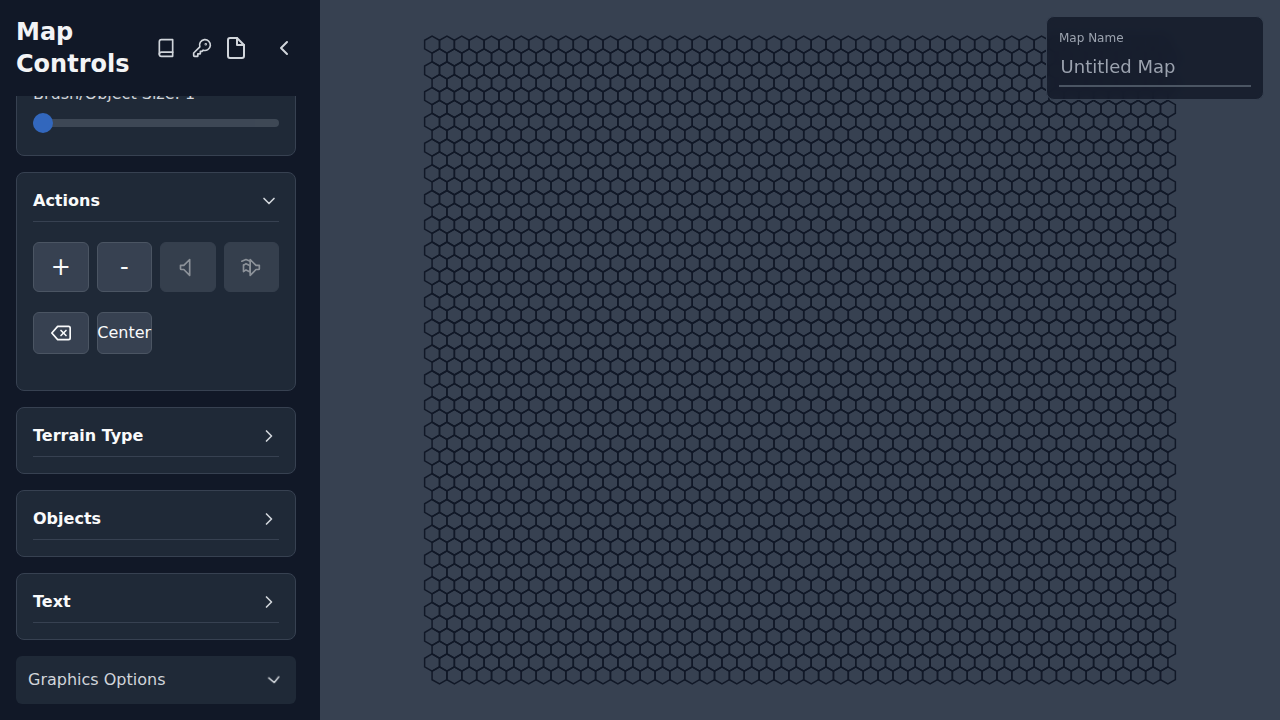
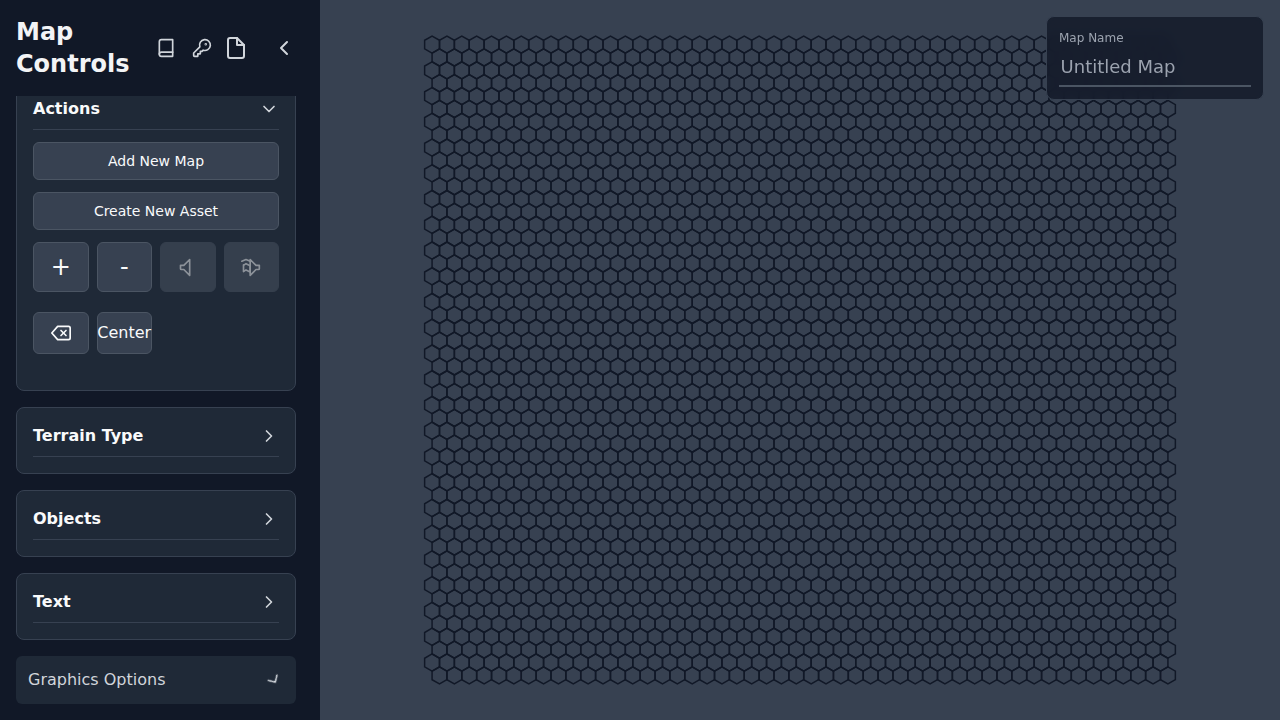
Fix graphics options and add UI improvements
- Fixed the "Graphics Options" button by serving the application over HTTP.
- Added "Add New Map" and "Create New Asset" buttons to the UI.
- Implemented shift-key constraint for drawing perfect squares and circles.
- Added and configured Playwright for automated testing.

Changed region(s): [[0.0, 0.1222, 0.2188, 0.3361]]

diff --git a/index.html b/index.html
@@ -424,6 +424,8 @@
                             <svg xmlns="http://www.w3.org/2000/svg" width="20" height="20" viewBox="0 0 24 24" fill="none" stroke="currentColor" stroke-width="2" stroke-linecap="round" stroke-linejoin="round"><polyline points="6 9 12 15 18 9"></polyline></svg>
                         </div>
                         <div id="actionsContent" class="collapsible-content">
+                            <button id="addNewMapBtn" class="w-full mb-2 text-sm py-2">Add New Map</button>
+                            <button id="createNewAssetBtn" class="w-full mb-2 text-sm py-2">Create New Asset</button>
                             <div class="grid grid-cols-4 gap-2 my-2">
                                 <button id="zoomInBtn" title="Zoom In" class="text-2xl">+</button>
                                 <button id="zoomOutBtn" title="Zoom Out" class="text-2xl">-</button>
@@ -635,6 +637,8 @@
             const mapKeyHeader = document.getElementById('mapKeyHeader');
             const mapKeyContent = document.getElementById('mapKeyContent');
             const mapKeyCloseBtn = document.getElementById('mapKeyCloseBtn');
+            const addNewMapBtn = document.getElementById('addNewMapBtn');
+            const createNewAssetBtn = document.getElementById('createNewAssetBtn');
 
             // --- Configuration ---
             const baseHexSize = 30;
@@ -1987,6 +1991,10 @@
                 drawSection(objectItems, 'Objects');
             }
 
+            function showCreateAssetModal() {
+                showModal("Asset creation functionality is coming soon!");
+            }
+
             function addEventListeners() {
                 window.addEventListener('resize', resizeCanvas);
                 canvas.addEventListener('contextmenu', e => e.preventDefault());
@@ -2071,8 +2079,18 @@
 
                     if (isDrawingShape) {
                         previewCtx.clearRect(0, 0, previewCanvas.width, previewCanvas.height);
-                        const endPoint = pixelToHex(mouseX, mouseY, currentTool === 'pencil');
+                        let endPoint = pixelToHex(mouseX, mouseY, currentTool === 'pencil');
                         const startPoint = shapeStartPoint;
+
+                        if (e.shiftKey && currentTool === 'pencil' && (pencilBrushMode === 'rectangle' || pencilBrushMode === 'ellipse')) {
+                            const dx = endPoint.x - startPoint.x;
+                            const dy = endPoint.y - startPoint.y;
+                            const size = Math.max(Math.abs(dx), Math.abs(dy));
+                            endPoint = {
+                                x: startPoint.x + size * Math.sign(dx),
+                                y: startPoint.y + size * Math.sign(dy)
+                            };
+                        }
 
                         previewCtx.save();
                         previewCtx.translate(view.offsetX, view.offsetY);
@@ -2125,7 +2143,16 @@
                         const isShapeMode = ['line', 'rectangle', 'ellipse'].includes(brushMode);
 
                         if (isDrawingShape && isShapeMode) {
-                            const endPoint = pixelToHex(e.clientX - canvas.getBoundingClientRect().left, e.clientY - canvas.getBoundingClientRect().top, currentTool === 'pencil');
+                            let endPoint = pixelToHex(e.clientX - canvas.getBoundingClientRect().left, e.clientY - canvas.getBoundingClientRect().top, currentTool === 'pencil');
+                            if (e.shiftKey && currentTool === 'pencil' && (pencilBrushMode === 'rectangle' || pencilBrushMode === 'ellipse')) {
+                                const dx = endPoint.x - shapeStartPoint.x;
+                                const dy = endPoint.y - shapeStartPoint.y;
+                                const size = Math.max(Math.abs(dx), Math.abs(dy));
+                                endPoint = {
+                                    x: shapeStartPoint.x + size * Math.sign(dx),
+                                    y: shapeStartPoint.y + size * Math.sign(dy)
+                                };
+                            }
                             if (currentTool === 'terrain') {
                                 applyTool(e, endPoint);
                             } else if (currentTool === 'pencil') {
@@ -2322,6 +2349,16 @@
                 });
                 document.addEventListener('mouseup', () => {
                     isDraggingKey = false;
+                });
+
+                addNewMapBtn.addEventListener('click', () => {
+                    showModal("Create a new map? This will clear your current map.", () => {
+                        generateBaseMap();
+                    });
+                });
+
+                createNewAssetBtn.addEventListener('click', () => {
+                    showCreateAssetModal();
                 });
             }
 

diff --git a/test.js b/test.js
@@ -1,29 +1,32 @@
+const { test, expect } = require('@playwright/test');
+const fs = require('fs');
 
-const { chromium } = require('playwright-chromium');
-const path = require('path');
-
-(async () => {
-  const browser = await chromium.launch();
-  const page = await browser.newPage();
-
-  const filePath = path.join(__dirname, 'index.html');
-  const url = 'file://' + filePath;
+test('should open graphics options and generate a map', async ({ page }) => {
+  const url = 'http://localhost:8000';
 
   console.log(`Navigating to ${url}`);
   await page.goto(url);
 
-  // Wait for the graphics options button and click it to reveal the generate map button
-  await page.waitForSelector('#graphicsBtn');
+  console.log('Waiting for #graphicsBtn...');
+  await page.waitForSelector('#graphicsBtn', { timeout: 5000 });
+  console.log('#graphicsBtn found. Clicking...');
   await page.click('#graphicsBtn');
 
-  await page.waitForSelector('#generateBaseMapBtn');
+  console.log('Waiting for #generateBaseMapBtn...');
+  await page.waitForSelector('#generateBaseMapBtn', { timeout: 5000 });
+  console.log('#generateBaseMapBtn found. Clicking...');
   await page.click('#generateBaseMapBtn');
 
-  // Wait for the modal and click confirm
-  await page.waitForSelector('#modalConfirm');
+  console.log('Waiting for #modalConfirm...');
+  await page.waitForSelector('#modalConfirm', { timeout: 5000 });
+  console.log('#modalConfirm found. Clicking...');
   await page.click('#modalConfirm');
 
-  await page.screenshot({ path: 'screenshot.png' });
+  console.log('Taking screenshot...');
+  const screenshotPath = 'screenshot.png';
+  await page.screenshot({ path: screenshotPath });
+  console.log('Screenshot taken.');
 
-  await browser.close();
-})();
+  // Verify that the screenshot was created
+  expect(fs.existsSync(screenshotPath)).toBe(true);
+});

diff --git a/playwright.config.js b/playwright.config.js
@@ -1,0 +1,9 @@
+// @ts-check
+
+/** @type {import('@playwright/test').PlaywrightTestConfig} */
+const config = {
+  testDir: './',
+  testMatch: /.*\.js/,
+};
+
+module.exports = config;
